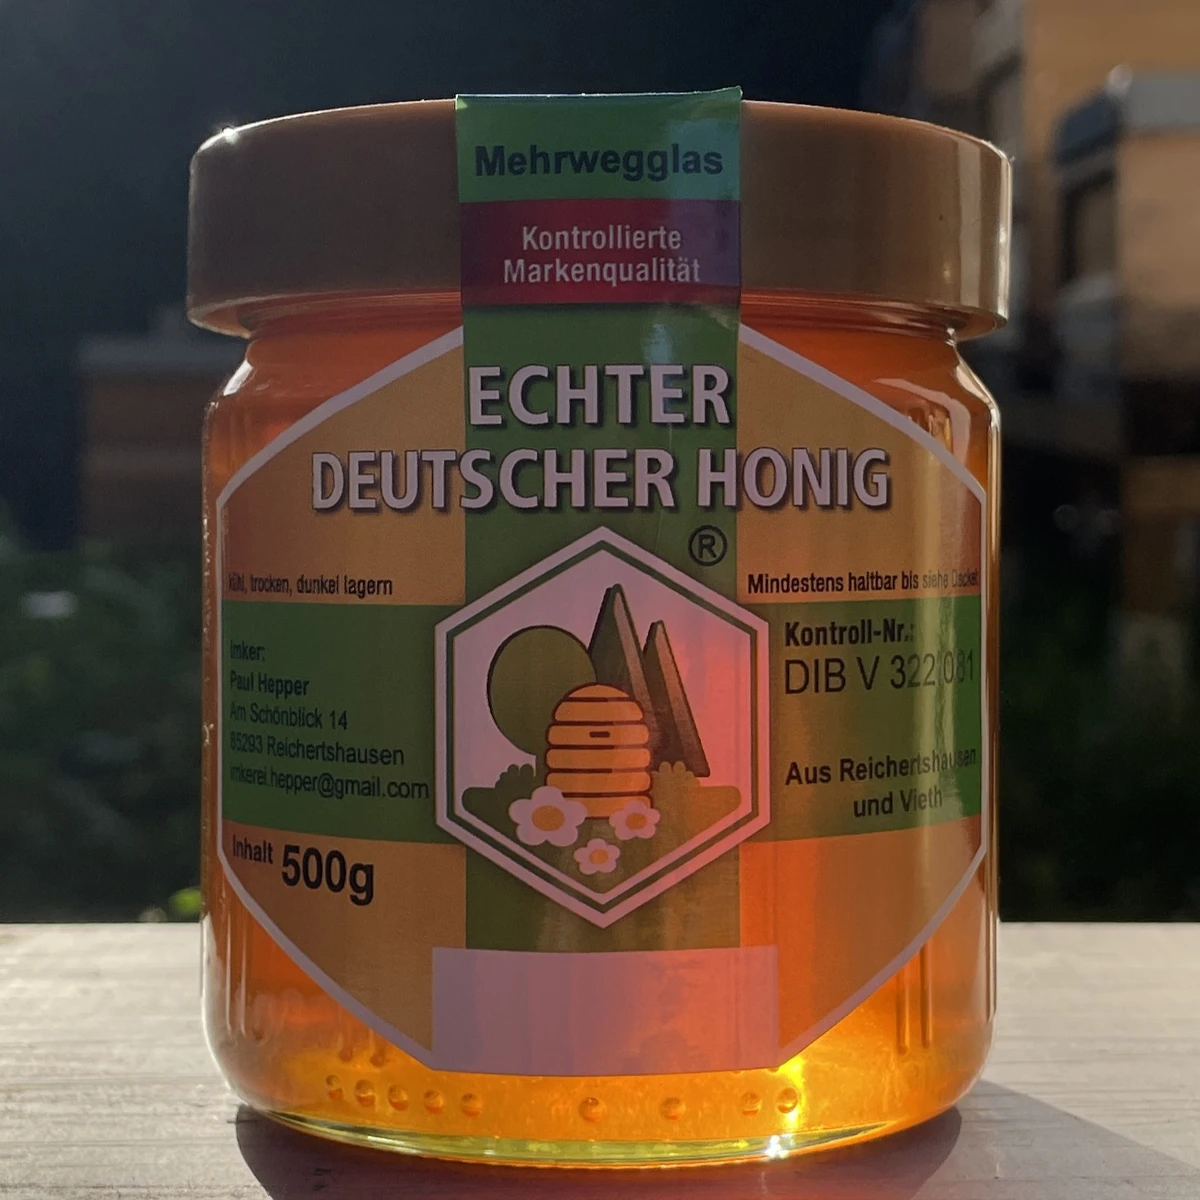
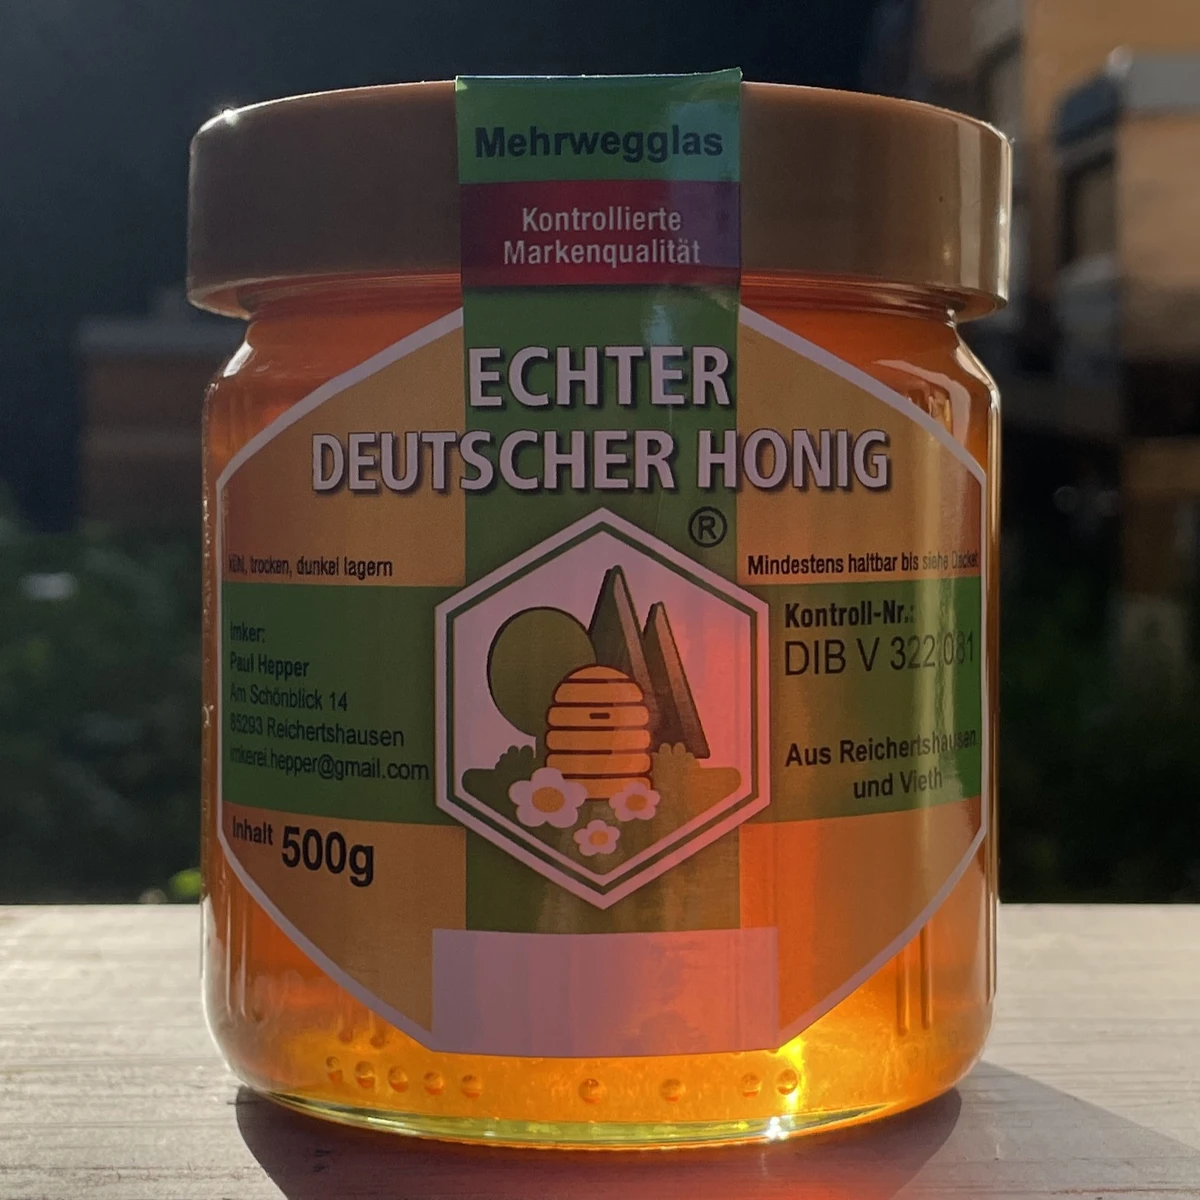
Center product photos, add route buttons/links, update hero copy and CTAs

diff --git a/index.html b/index.html
@@ -135,20 +135,27 @@
     color: var(--bark-soft);
     max-width: 42ch;
   }
-  .hero-cta {
+  .hero-ctas {
     margin-top: 34px;
+    display: flex;
+    flex-direction: column;
+    align-items: flex-start;
+    gap: 14px;
+  }
+  .hero-cta {
     display: inline-flex;
     align-items: center;
     gap: 10px;
-    background: var(--gold);
-    color: var(--ivory);
+    background: var(--ivory);
+    color: var(--gold-deep);
+    border: 1.5px solid var(--gold-deep);
     text-decoration: none;
     font-weight: 600;
-    padding: 14px 26px;
+    padding: 12.5px 24.5px;
     border-radius: 3px;
-    transition: background 0.15s ease;
+    transition: background 0.15s ease, color 0.15s ease;
   }
-  .hero-cta:hover { background: var(--gold-deep); }
+  .hero-cta:hover { background: var(--gold); color: var(--ivory); border-color: var(--gold); }
 
   .hero-photo {
     width: 100%;
@@ -309,6 +316,16 @@
     color: var(--bark-soft);
   }
   .karte-legende span { display: inline-flex; align-items: center; gap: 8px; }
+  .karte-legende a {
+    display: inline-flex;
+    align-items: center;
+    gap: 8px;
+    color: var(--bark-soft);
+    text-decoration: none;
+    border-bottom: 1px solid transparent;
+    transition: color 0.15s ease, border-color 0.15s ease;
+  }
+  .karte-legende a:hover { color: var(--gold-deep); border-color: var(--gold-deep); }
   .karte-legende .dot {
     width: 22px;
     height: 22px;
@@ -358,6 +375,15 @@
   }
   .leaflet-popup-content { font-family: 'Inter', sans-serif; font-size: 0.9rem; }
   .leaflet-popup-content strong { font-family: 'Fraunces', serif; font-size: 1rem; }
+  .popup-route {
+    display: inline-block;
+    margin-top: 8px;
+    color: var(--gold-deep);
+    text-decoration: none;
+    font-weight: 600;
+    font-size: 0.85rem;
+    border-bottom: 1px solid var(--gold-deep);
+  }
 
   /* Bewertungen */
   .bewertungen {
@@ -604,8 +630,11 @@
   <div class="wrap hero-grid">
     <div>
       <h1>Honig aus der Region, direkt vom Imker</h1>
-      <p class="lead">Wir betreiben unsere Bienenvölker mit viel Sorgfalt und verkaufen unseren Honig unbehandelt und direkt ab Hof – naturbelassen, ehrlich und aus der Region.</p>
-      <a href="#kontakt" class="hero-cta">Honig anfragen →</a>
+      <p class="lead">Honig aus Reichertshausen und Vieth – naturbelassen und direkt von unseren Bienenvölkern ins Glas.</p>
+      <div class="hero-ctas">
+        <a href="#selbstbedienung" class="hero-cta">Zum Honigschrank →</a>
+        <a href="#kontakt" class="hero-cta">Honig anfragen →</a>
+      </div>
     </div>
 <div class="hero-photo"><img src="images/hero-honigwabe.webp" alt="Echte Honigwabe mit Bienen aus unseren Völkern"></div>
   </div>
@@ -630,13 +659,13 @@
     <h2>Unsere Honigsorten</h2>
     <div class="honig-liste honig-liste-2">
       <div class="honig">
-        <a class="honig-photo" href="#kontakt" aria-label="Zum Bestellformular springen"><img src="images/honig-hell.webp?v=3" alt="Glas Heller Frühjahrshonig, cremige Konsistenz"></a>
+        <a class="honig-photo" href="#kontakt" aria-label="Zum Bestellformular springen"><img src="images/honig-hell.webp?v=4" alt="Glas Heller Frühjahrshonig, cremige Konsistenz"></a>
         <h3>Heller Frühjahrshonig</h3>
         <p>Frühtrachthonig – cremig und streichfähig.</p>
         <div class="preis">6,50 € / Glas (500 g)</div>
       </div>
       <div class="honig">
-        <a class="honig-photo" href="#kontakt" aria-label="Zum Bestellformular springen"><img src="images/honig-dunkel.webp?v=3" alt="Glas Dunkler Sommerhonig, flüssige Konsistenz"></a>
+        <a class="honig-photo" href="#kontakt" aria-label="Zum Bestellformular springen"><img src="images/honig-dunkel.webp?v=4" alt="Glas Dunkler Sommerhonig, flüssige Konsistenz"></a>
         <h3>Dunkler Sommerhonig</h3>
         <p>Sommertracht – flüssig und würziger. Sollte er mit der Zeit fest werden, lässt er sich im Wasserbad bei bis zu 40 °C wieder verflüssigen.</p>
         <div class="preis">6,50 € / Glas (500 g)</div>
@@ -651,6 +680,10 @@
       <h2>Honig rund um die Uhr</h2>
       <p>An unserer <a href="https://maps.app.goo.gl/6FQpW7BBi8KseyZB6" target="_blank" rel="noopener">Adresse Am Schönblick 14 in Reichertshausen</a> steht ein Selbstbedienungsschrank mit frischem Honig – jederzeit zugänglich. Einfach vorbeischauen und sich bedienen. Bezahlt wird bar oder per PayPal-QR-Code direkt am Schrank.</p>
       <p class="sb-hint">Der Schrank hängt an der Garagenwand, kurz hinter der Einfahrt (siehe Foto).</p>
+      <a class="maps-btn" href="https://www.google.com/maps/dir/?api=1&destination=48.4664112,11.4958184" target="_blank" rel="noopener">
+        <svg width="18" height="18" viewBox="0 0 24 24" fill="none" xmlns="http://www.w3.org/2000/svg" aria-hidden="true"><path d="M12 2C7.58 2 4 5.58 4 10c0 5.25 6.5 11.25 7.2 11.88a1.2 1.2 0 0 0 1.6 0C13.5 21.25 20 15.25 20 10c0-4.42-3.58-8-8-8zm0 11a3 3 0 1 1 0-6 3 3 0 0 1 0 6z" fill="currentColor"/></svg>
+        Route zum Selbstbedienungsschrank
+      </a>
     </div>
     <div class="sb-photos">
       <img src="images/schrank-zufahrt.webp" alt="Zufahrt mit Pfeil zum Honig-Selbstbedienungsschrank an der Garagenwand">
@@ -665,7 +698,7 @@
     <p>Unsere Völker verteilen sich auf zwei Standorte in der Region – am Schönblick in Reichertshausen und am zweiten Bienenstand in Vieth.</p>
     <div id="bee-map"></div>
     <div class="karte-legende">
-      <span><span class="dot">🐝</span> Imkerei Hepper, Am Schönblick 14, Reichertshausen — 🛒 Selbstbedienungsschrank</span>
+      <a href="https://www.google.com/maps/dir/?api=1&destination=48.4664112,11.4958184" target="_blank" rel="noopener"><span class="dot">🐝</span> Imkerei Hepper, Am Schönblick 14, Reichertshausen — 🛒 Selbstbedienungsschrank</a>
       <span><span class="dot">🐝</span> Bienenstand, Dorfstraße 37, Vieth</span>
     </div>
   </div>
@@ -771,11 +804,16 @@
     attribution: '&copy; <a href="https://www.openstreetmap.org/copyright">OpenStreetMap</a>-Mitwirkende'
   }).addTo(map);
 
+  function routeLink(coords) {
+    return '<a class="popup-route" href="https://www.google.com/maps/dir/?api=1&destination=' +
+      coords[0] + ',' + coords[1] + '" target="_blank" rel="noopener">Route in Google Maps →</a>';
+  }
+
   L.marker(standort1, { icon: hiveIconShop }).addTo(map)
-    .bindPopup('<strong>Imkerei Hepper</strong><br>Am Schönblick 14<br>85293 Reichertshausen<br>🛒 Selbstbedienungsschrank vor Ort');
+    .bindPopup('<strong>Imkerei Hepper</strong><br>Am Schönblick 14<br>85293 Reichertshausen<br>🛒 Selbstbedienungsschrank vor Ort<br>' + routeLink(standort1));
 
   L.marker(standort2, { icon: hiveIcon }).addTo(map)
-    .bindPopup('<strong>Bienenstand Vieth</strong><br>Dorfstraße 37<br>85298 Vieth');
+    .bindPopup('<strong>Bienenstand Vieth</strong><br>Dorfstraße 37<br>85298 Vieth<br>' + routeLink(standort2));
 
   map.fitBounds([standort1, standort2], { padding: [60, 60] });
 </script>
